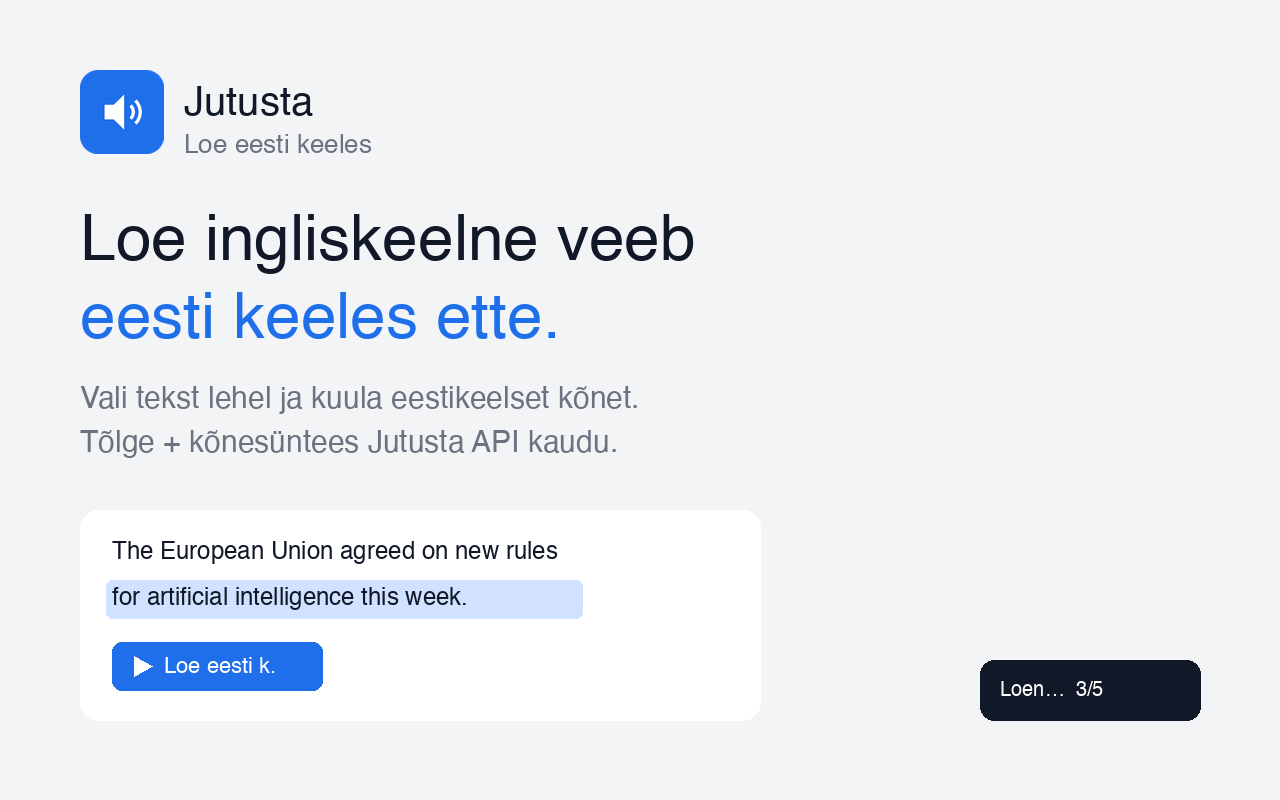
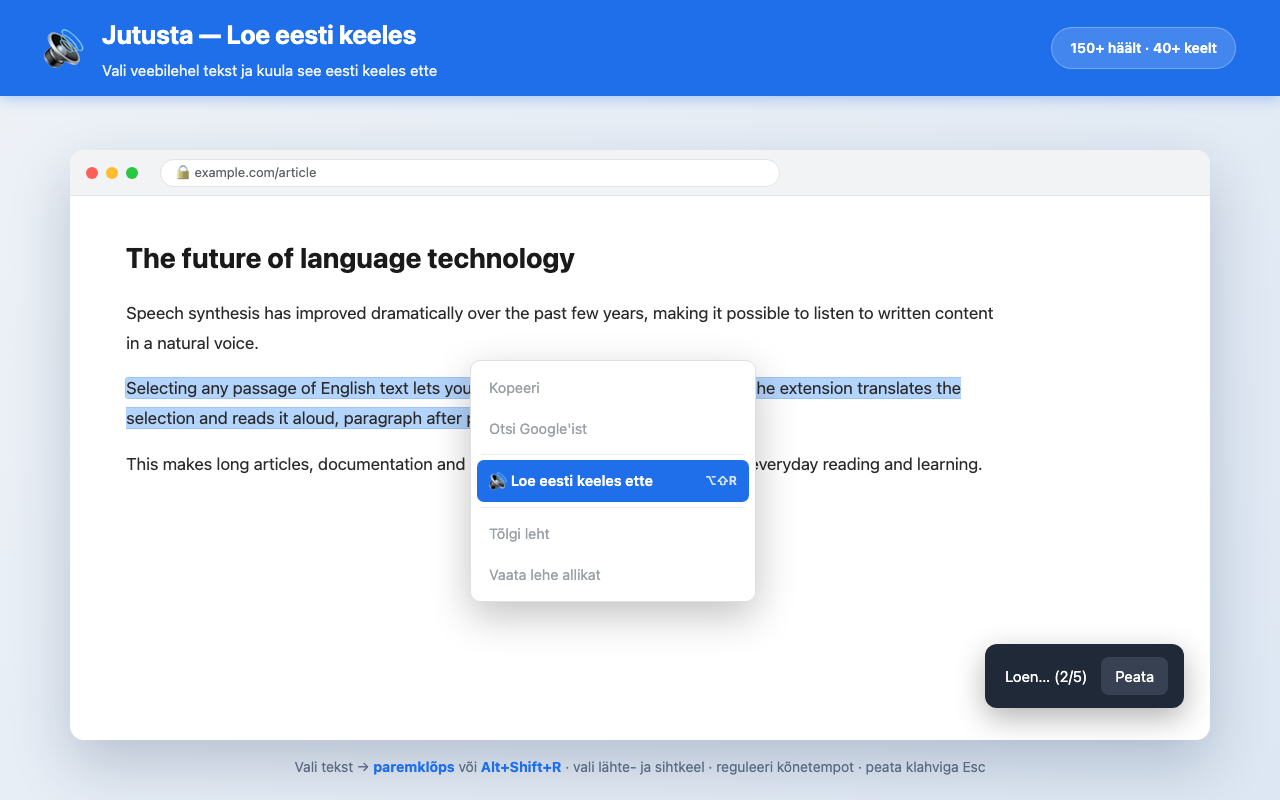
Uus Store-screenshot v1.1.x töövooga (1280×800)
Asendab vana v1.0.0 hõljuva-nupu pildi. Näitab paremklõpsu menüüd
„Loe eesti keeles ette", valitud teksti, olekuriba ja brändi
(150+ häält, 40+ keelt). Lisatud taastatav allikas screenshot-source.html.

diff --git a/store-assets/screenshot-source.html b/store-assets/screenshot-source.html
@@ -1,0 +1,128 @@
+<!DOCTYPE html>
+<html lang="et">
+<head>
+<meta charset="utf-8" />
+<style>
+  * { margin: 0; padding: 0; box-sizing: border-box; }
+  html, body { width: 1280px; height: 800px; overflow: hidden; }
+  body {
+    font: 16px/1.6 -apple-system, "Segoe UI", system-ui, sans-serif;
+    background: linear-gradient(135deg, #eef2f7 0%, #dde7f3 100%);
+    color: #111;
+    position: relative;
+  }
+
+  /* --- Pealisriba (bränd) --- */
+  .banner {
+    height: 96px; display: flex; align-items: center; gap: 18px;
+    padding: 0 44px; background: #1f6feb; color: #fff;
+    box-shadow: 0 2px 14px rgba(31,111,235,.35);
+  }
+  .banner .logo { font-size: 40px; }
+  .banner h1 { font-size: 26px; font-weight: 700; letter-spacing: -.2px; }
+  .banner p { font-size: 15px; opacity: .92; margin-top: 2px; }
+  .banner .badge {
+    margin-left: auto; background: rgba(255,255,255,.16);
+    border: 1px solid rgba(255,255,255,.3); border-radius: 999px;
+    padding: 9px 18px; font-size: 14px; font-weight: 600;
+  }
+
+  /* --- Brauseriaken --- */
+  .browser {
+    position: absolute; top: 150px; left: 70px; width: 1140px; height: 590px;
+    background: #fff; border-radius: 14px; overflow: hidden;
+    box-shadow: 0 24px 60px rgba(20,40,80,.22);
+  }
+  .chrome-bar {
+    height: 46px; background: #f1f3f4; display: flex; align-items: center;
+    gap: 8px; padding: 0 16px; border-bottom: 1px solid #e3e6e8;
+  }
+  .dot { width: 12px; height: 12px; border-radius: 50%; }
+  .dot.r { background: #ff5f57; } .dot.y { background: #febc2e; } .dot.g { background: #28c840; }
+  .url {
+    margin-left: 14px; flex: 1; max-width: 620px; height: 28px; background: #fff;
+    border: 1px solid #e0e3e6; border-radius: 14px; display: flex; align-items: center;
+    padding: 0 14px; font-size: 13px; color: #5f6368;
+  }
+
+  /* --- Artikli sisu --- */
+  .article { padding: 40px 56px; }
+  .article h2 { font-size: 28px; font-weight: 700; margin-bottom: 18px; color: #1a1a1a; }
+  .article p { font-size: 17px; line-height: 1.75; color: #2b2b2b; margin-bottom: 16px; max-width: 880px; }
+  .sel { background: #b3d4fc; border-radius: 2px; box-shadow: 0 0 0 1px #9cc4f7; }
+
+  /* --- Paremklõpsu menüü --- */
+  .ctx {
+    position: absolute; top: 360px; left: 470px; width: 286px;
+    background: #fff; border: 1px solid #e0e0e0; border-radius: 10px;
+    box-shadow: 0 14px 40px rgba(0,0,0,.24); padding: 6px; font-size: 14.5px;
+    z-index: 5;
+  }
+  .ctx .it { padding: 9px 12px; border-radius: 7px; color: #3c4043; display: flex; align-items: center; gap: 10px; }
+  .ctx .it.muted { color: #9aa0a6; }
+  .ctx .it.active { background: #1f6feb; color: #fff; font-weight: 600; }
+  .ctx .sep { height: 1px; background: #ededed; margin: 5px 4px; }
+  .ctx .kbd { margin-left: auto; font-size: 12px; opacity: .8; }
+
+  /* --- Olekuriba (content.css-iga sarnane) --- */
+  .status {
+    position: absolute; right: 96px; bottom: 92px; z-index: 9;
+    display: flex; align-items: center; gap: 14px;
+    background: #1f2937; color: #fff; padding: 13px 16px 13px 20px;
+    border-radius: 12px; font-size: 15px; box-shadow: 0 10px 30px rgba(0,0,0,.3);
+  }
+  .status .stop { background: #374151; color: #fff; border: none; border-radius: 8px; padding: 7px 14px; font: inherit; }
+
+  /* --- Alumine vihjeriba --- */
+  .hintbar {
+    position: absolute; bottom: 22px; left: 0; width: 100%; text-align: center;
+    font-size: 14px; color: #5b6b80;
+  }
+  .hintbar b { color: #1f6feb; }
+</style>
+</head>
+<body>
+  <div class="banner">
+    <div class="logo">🔊</div>
+    <div>
+      <h1>Jutusta — Loe eesti keeles</h1>
+      <p>Vali veebilehel tekst ja kuula see eesti keeles ette</p>
+    </div>
+    <div class="badge">150+ häält · 40+ keelt</div>
+  </div>
+
+  <div class="browser">
+    <div class="chrome-bar">
+      <div class="dot r"></div><div class="dot y"></div><div class="dot g"></div>
+      <div class="url">🔒 example.com/article</div>
+    </div>
+    <div class="article">
+      <h2>The future of language technology</h2>
+      <p>Speech synthesis has improved dramatically over the past few years, making
+         it possible to listen to written content in a natural voice.</p>
+      <p><span class="sel">Selecting any passage of English text lets you hear it instantly in fluent Estonian — the extension translates the selection and reads it aloud, paragraph after paragraph.</span></p>
+      <p>This makes long articles, documentation and foreign news far more accessible
+         for everyday reading and learning.</p>
+    </div>
+  </div>
+
+  <div class="ctx">
+    <div class="it muted">Kopeeri</div>
+    <div class="it muted">Otsi Google'ist</div>
+    <div class="sep"></div>
+    <div class="it active">🔊 Loe eesti keeles ette <span class="kbd">⌥⇧R</span></div>
+    <div class="sep"></div>
+    <div class="it muted">Tõlgi leht</div>
+    <div class="it muted">Vaata lehe allikat</div>
+  </div>
+
+  <div class="status">
+    <span>Loen… (2/5)</span>
+    <button class="stop">Peata</button>
+  </div>
+
+  <div class="hintbar">
+    Vali tekst → <b>paremklõps</b> või <b>Alt+Shift+R</b> · vali lähte- ja sihtkeel · reguleeri kõnetempot · peata klahviga Esc
+  </div>
+</body>
+</html>